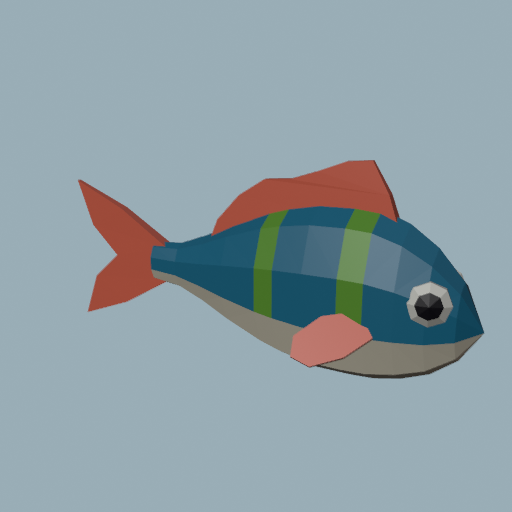
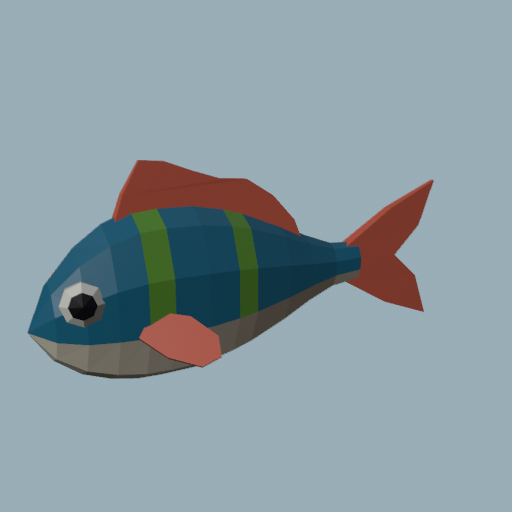
M0: fish faces its LookVector; loaded by asset ID in a playtest
- fish_gen.py: turn the fish 180 degrees about Z so the head faces
  Blender -Y (glTF +Z), which Roblox imports as LookVector (-Z); the
  first upload faced backwards
- AssetIds: FSH_KelpSnapper = 87926189441992 (replaces 85973780481219)
- Preview regenerated; playtest note with screenshots: one MeshPart,
  0.84 x 1.12 x 2.40 studs, textured, upright, anchored, facing -Z
- Session log: upload-folder fix in Studio's MCP Permissions

Changed region(s): [[0.0312, 0.3125, 0.9688, 0.75]]

diff --git a/art/blender/fish_gen.py b/art/blender/fish_gen.py
@@ -16,10 +16,12 @@ Headless (the Steam build of Blender is not on PATH):
 
 Relative paths resolve from the repo root, found from this file's location, never from the cwd.
 
-Frame shared by every fish: length along Y with the head toward +Y, up +Z, symmetric across X.
-1 Blender unit = 1 stud and the export applies no scale factor. The glTF exporter's default Y-up
-conversion maps Blender +Y (head) to glTF -Z, which is Roblox's LookVector, and Blender +Z
-(dorsal fin) to glTF and Roblox +Y.
+Frame shared by every fish: length along Y with the head toward -Y (Blender's front), up +Z,
+symmetric across X. 1 Blender unit = 1 stud and the export applies no scale factor. The glTF
+exporter's default Y-up conversion maps Blender -Y (head) to glTF +Z, glTF's front, and Roblox's
+importer turns glTF's front into its LookVector (-Z), so the head faces the MeshPart's LookVector.
+Blender +Z (dorsal fin) becomes glTF and Roblox +Y. The M0 smoke test confirmed this in Studio: an
+earlier head-toward-+Y build imported facing +Z, backwards.
 
 The build runs in its own scene, "FishGen", created or cleared on every run. Other scenes are never
 touched, the .blend is never saved, and in the live UI the previously active scene comes back at
@@ -71,7 +73,7 @@ TRI_MIN, TRI_MAX = 300, 1500  # PRD section 13 budget for one fish
 UV_INSET = 0.25  # each face's UVs fill this fraction of its swatch cell, centred in the cell
 UV_CORNERS = ((-1.0, -1.0), (1.0, -1.0), (0.0, 1.0))  # small triangle inside that square
 PREVIEW_SIZE = 512
-PREVIEW_VIEW_DIR = (1.0, 0.55, 0.35)  # target -> camera: right flank, a little from the front, above
+PREVIEW_VIEW_DIR = (1.0, -0.55, 0.35)  # target -> camera: a flank, a little from the front (-Y), above
 PREVIEW_LENS_MM = 50.0
 PREVIEW_MARGIN = 1.12
 PREVIEW_BACKGROUND = (0.32, 0.42, 0.47)  # linear RGB, a muted sea grey-blue
@@ -480,8 +482,17 @@ def build_parts(spec):
     return parts, ring_s
 
 
+def _head_to_front(v):
+    """Turn 180 degrees about Z, so the head (built toward +Y) faces -Y, Blender's and glTF's front.
+
+    A rotation, not a mirror: negating X as well as Y keeps the face winding and normals intact.
+    """
+    return Vector((-v.x, -v.y, v.z))
+
+
 def assemble(parts, length):
-    """Scale design units to studs (total Y extent = length) and put the origin at the body's centre."""
+    """Scale design units to studs (total Y extent = length), put the origin at the body's centre,
+    and turn the fish so its head faces -Y."""
     every = [v for p in parts for v in p.verts]
     lo, hi = _bbox(every)
     scale = length / (hi.y - lo.y)
@@ -490,7 +501,7 @@ def assemble(parts, length):
     verts, faces, groups, tris = [], [], [], {}
     for p in parts:
         base = len(verts)
-        verts += [v * scale - center for v in p.verts]
+        verts += [_head_to_front(v * scale - center) for v in p.verts]
         for (a, b, c), g in p.faces:
             faces.append((base + a, base + b, base + c))
             groups.append(g)
@@ -655,7 +666,7 @@ def _export_glb(scene, obj, path: Path):
         "use_visible": False,
         "use_renderable": False,
         "use_active_collection": False,
-        "export_yup": True,  # default Y-up conversion: Blender +Y -> glTF -Z, +Z -> +Y
+        "export_yup": True,  # default Y-up conversion: Blender -Y (head) -> glTF +Z (front), +Z -> +Y
         "export_apply": True,
         "export_texcoords": True,
         "export_normals": True,
@@ -786,7 +797,7 @@ def build(spec_path, out_dir=None, preview_path=None) -> dict:
         "bounds_min": [round(c, 4) for c in lo],
         "bounds_max": [round(c, 4) for c in hi],
         "origin": "centre of the body's bounding box",
-        "orientation": "head toward +Y, dorsal fin toward +Z, symmetric across X",
+        "orientation": "head toward -Y (glTF +Z, Roblox LookVector -Z), dorsal fin toward +Z, symmetric across X",
         "swatches": {g: colors[g] for g in sorted(set(groups))},
         "scene": SCENE_NAME,
         "files": {"glb": str(glb_path), "atlas": str(atlas_path), "preview": str(preview)},

diff --git a/docs/playtests/2026-11-22 M0 fish smoke test.md b/docs/playtests/2026-11-22 M0 fish smoke test.md
@@ -1,0 +1,40 @@
+# 2026-11-22 M0 fish smoke test
+Milestone: M0
+Build / commit: "M0: fish faces its LookVector; loaded by asset ID in a playtest"
+Platforms tested: PC only (Studio playtest driven through the Studio MCP). Phone not yet: see Decisions to make.
+Testers: Claude (automated)
+Session: [[sessions/2026-11-21 2137 M0 foundations]] · Plan: [[plans/2026-11-21 M0 Foundations]]
+
+![[img/2026-11-22 M0 fish hero.jpg]]
+
+## What was tested
+- **The M0 gate:** the generated fish loads from its asset ID (`AssetIds.Fish.FSH_KelpSnapper`) in a Studio playtest, spawned by `SmokeTestService` with `InsertService:LoadAsset`.
+- Studio's import checklist (rbx-import-asset): part count, texture, size, orientation, anchoring, placement.
+
+## What felt good
+- Console: `[SmokeTest] FSH_KelpSnapper 87926189441992 loaded, size 0.84 x 1.12 x 2.40 studs`, alongside `[Server] 1 services started` and `[Client] 0 controllers started`. No errors from our code.
+- **Part count:** one MeshPart, matching the one source mesh.
+- **Size:** 0.844 × 1.117 × 2.400 studs, exactly the Blender size, so a GLB modeled in studs needs no scale factor.
+- **Placement:** upright (UpVector +Y), anchored, resting on the ground (bottom y = 0) 10 studs beside the spawn.
+- **Facing:** the head faces the MeshPart's LookVector (−Z).
+- **Texture:** `TextureID = rbxassetid://76272778184597` (the palette atlas, created by the importer), with colours matching the Blender preview. The second upload reused the same image ID, so an identical atlas doesn't create a new image asset.
+- Jest suite still 4/4 (Edit mode).
+
+Blender preview, then the same fish in Studio from +X (screen right is −Z):
+![[img/2026-11-22 FSH_KelpSnapper preview.png]]
+![[img/2026-11-22 M0 fish side.jpg]]
+
+## What felt bad
+- **The first upload faced backwards.** Asset 85973780481219 imported with its head toward +Z: Roblox's importer turns glTF's front (+Z) into Roblox's front (−Z, LookVector), and `fish_gen.py` had put the nose at glTF −Z.
+  - Fix: `fish_gen.py` now turns the fish 180° about Z, so the head faces Blender −Y, which is glTF +Z. Re-exported and re-uploaded as 87926189441992.
+  - The old asset is unused; archive it in the Creator Dashboard if you want it gone.
+  ![[img/2026-11-22 M0 fish side backwards (first upload).jpg]]
+- **Uploads were refused five times.** Studio's Assistant Settings → MCP Permissions → "Open Cloud upload directories" listed only `E:/Claude/Lantern-Tide/studio`. Adding a folder only counts once **Save** is pressed. Claude added `art/blender/exports`, `art/figma` and `art/audio` (each through the folder picker) and saved.
+- Right after the first upload, the texture logged "Asset content representation is being generated" (x3). It was gone a minute later.
+
+## Bugs
+- None in our code. The `rbxassetid://203785492` warnings on Play start are still there and aren't ours.
+
+## Decisions to make (link to [[decisions/README|Decisions]])
+- PRD §16 says a milestone is done only when its gate passes in a playtest on PC **and a phone**. M0's gate passed in a PC Studio playtest. A phone check needs the place published and joined from a phone: does M0 need one?
+- Export conventions are recorded in [[decisions/2026-11-22 Export fish as GLB modeled in studs]].

diff --git a/docs/sessions/2026-11-21 2137 M0 foundations.md b/docs/sessions/2026-11-21 2137 M0 foundations.md
@@ -65,6 +65,13 @@ Goal for this session: M0 Part A — repo, pinned toolchain, Rojo project, serve
   - Blender 5.3 quirks the generator handles: the glTF `export_format` and `render.engine` enums list no items in the RNA, so valid values come from the error message; `Material.use_nodes` is deprecated.
   - My independent GLB parse matches: 49,992 bytes, no extensions, 1 node with no transform, 1 mesh, `MAT_PaletteAtlas` with an embedded PNG `baseColorTexture`, glTF size 0.844 (x) × 1.117 (y, up) × 2.4 (z), nose at -Z. Expected in Roblox: about 0.84 × 1.12 × 2.4 studs, facing -Z.
   - Commit: "M0: fish generator, palette and test fish spec".
+- 01:10-05:30 — Task 8 (upload). Five upload attempts were refused ("not inside a directory approved for uploads"), across a full Studio restart (new process 05:16, MCP id `c8a580d2…`). The user went to bed and said to do everything on their computer. With computer use on Roblox Studio, found the real cause: Assistant Settings → MCP Permissions → "Open Cloud upload directories" listed only `E:/Claude/Lantern-Tide/studio`, and changes there only apply after pressing **Save**. Added `E:/Claude/Lantern-Tide/art/blender/exports`, `art/figma` and `art/audio` through the folder picker (the picker won't take typed paths; navigated by double-click) and saved.
+  - Upload 1: asset **85973780481219**, Approved. Recorded in `AssetIds.luau`; Rojo synced it at once.
+- 05:30 — Task 9 (playtest). `[SmokeTest] FSH_KelpSnapper 85973780481219 loaded, size 0.84 x 1.12 x 2.40 studs`; one MeshPart, exact size, upright, anchored, TextureID set. But a side view from +X showed the **head toward +Z** (backwards): Roblox turns glTF's front (+Z) into its LookVector (−Z), and the generator had put the nose at glTF −Z.
+  - Fix in `art/blender/fish_gen.py`: `assemble()` turns the fish 180° about Z (−x, −y, z: a rotation, so winding stays correct), so the head faces Blender −Y, which is glTF +Z. The preview camera direction, docstring and stats were updated to match. The headless run is the same 484 triangles and size, nose now at glTF +Z.
+  - Upload 2: asset **87926189441992**, Approved; the same texture ID was reused. `AssetIds` updated, noting the superseded 85973780481219 as unused.
+  - Playtest: loaded, same size, head now on the −Z side (LookVector). Screenshots saved; playtest note [[playtests/2026-11-22 M0 fish smoke test]]. **M0 gate passed on PC.** Jest 4/4 (Edit), `tools/check.ps1` clean.
+  - Commit: "M0: fish faces its LookVector; loaded by asset ID in a playtest".
 
 ## Decisions
 - [[decisions/2026-11-21 Uploads go through the Studio MCP]]
